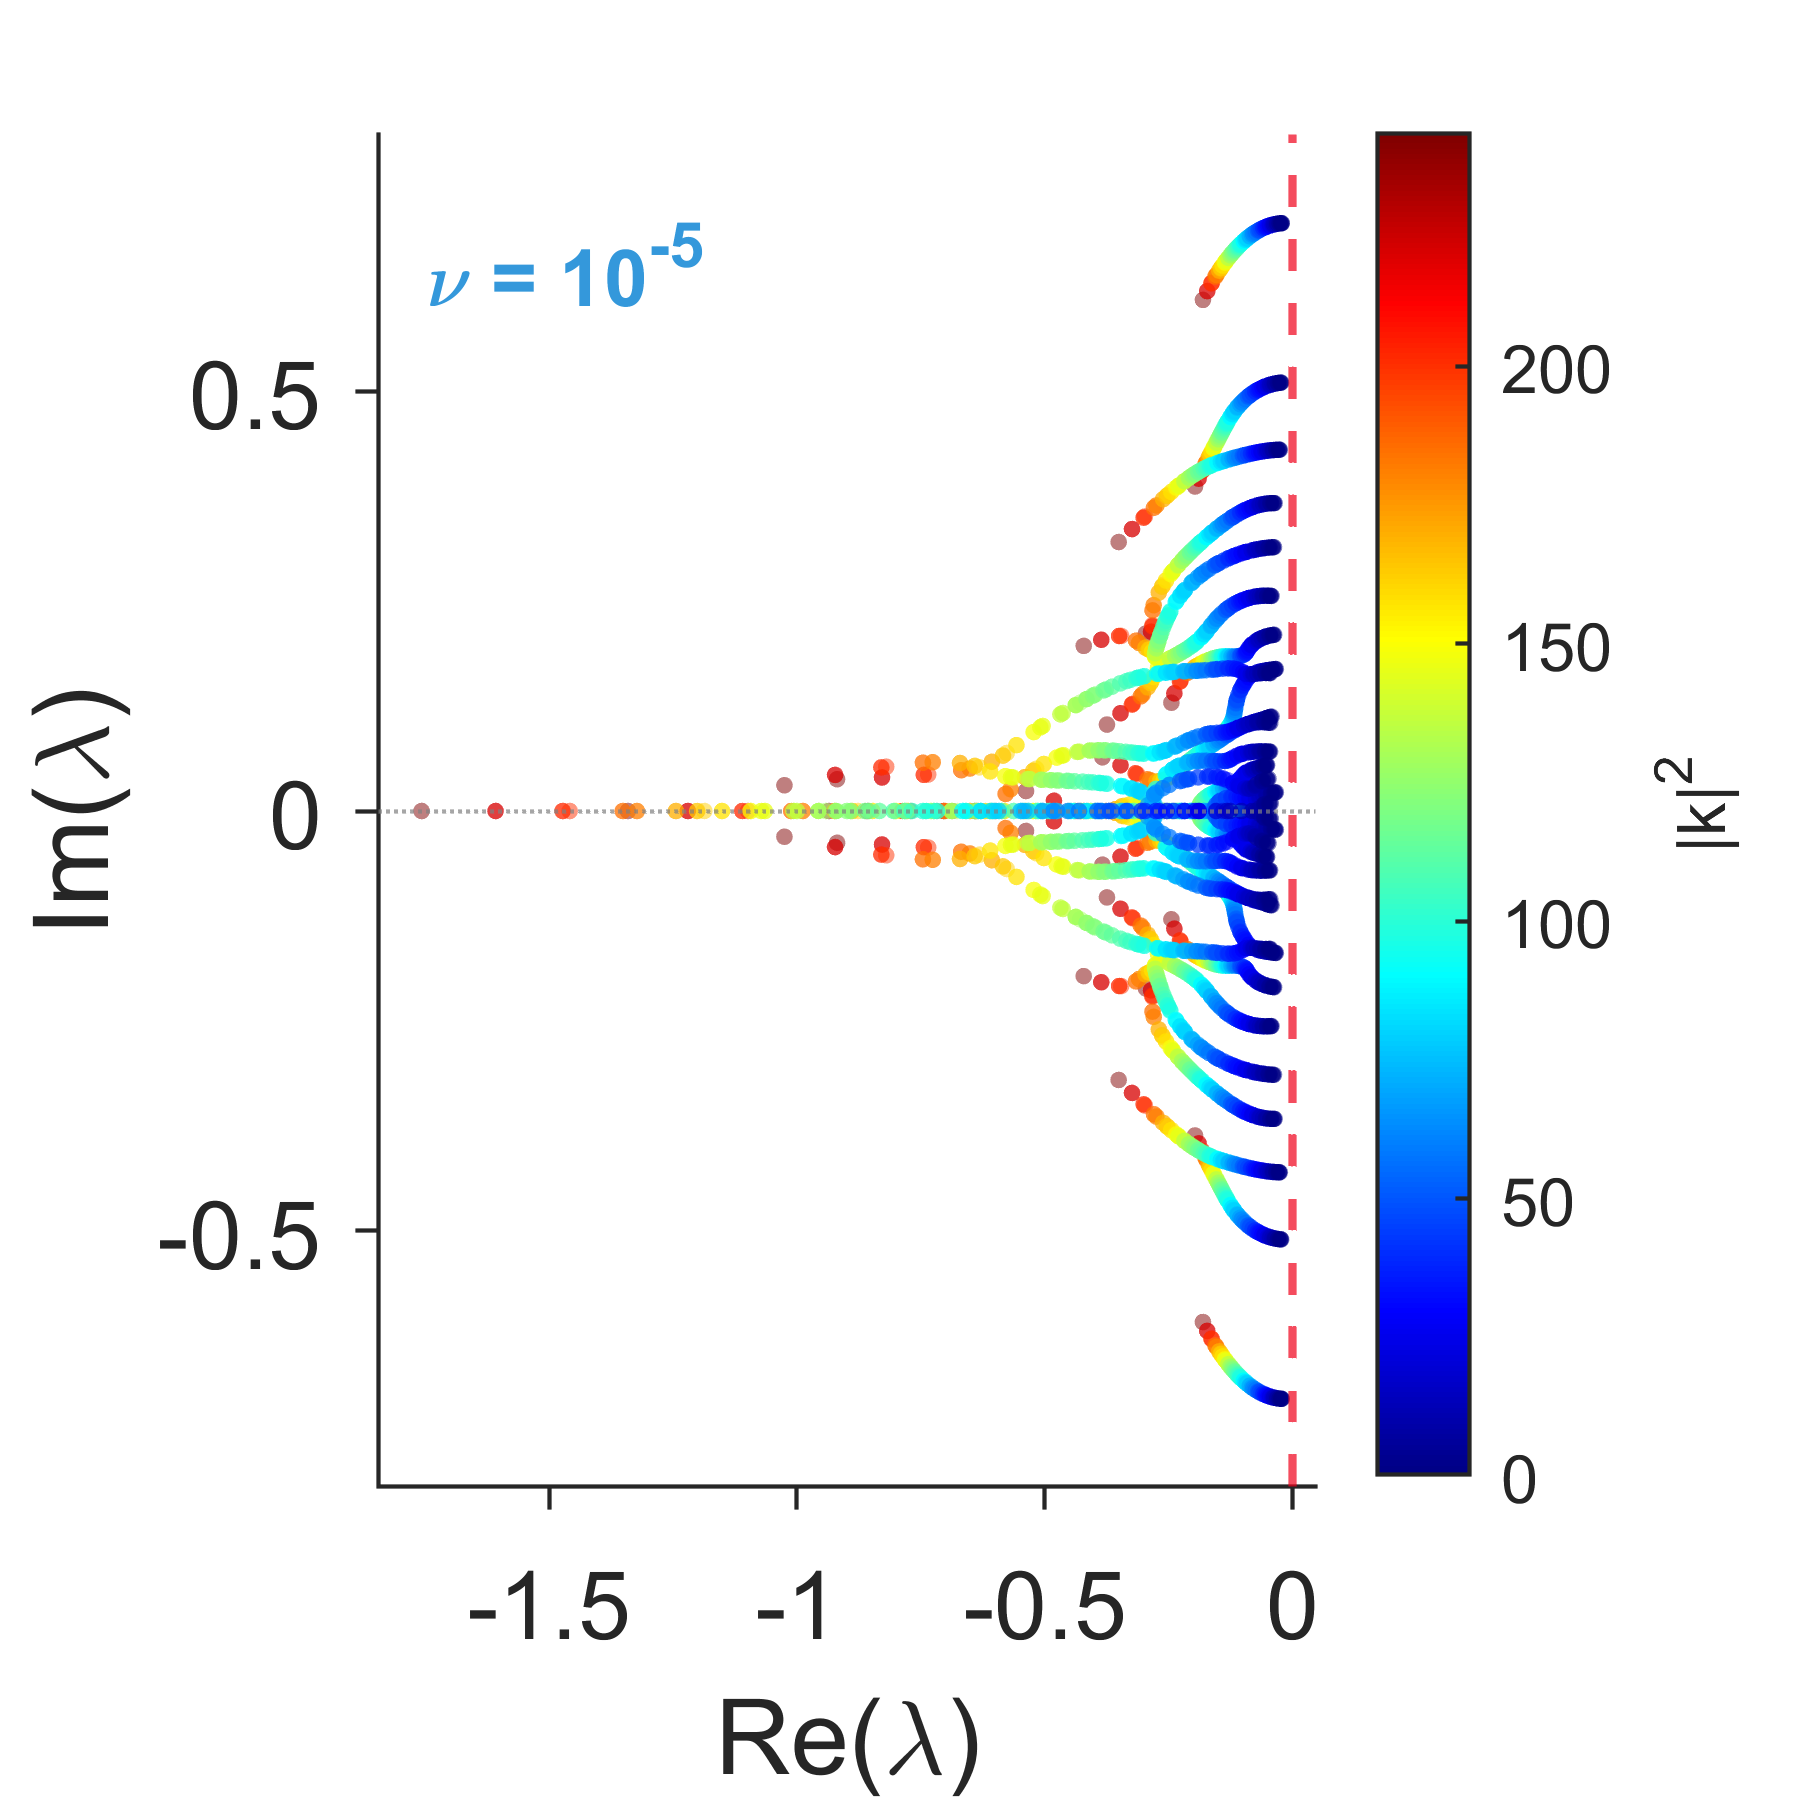
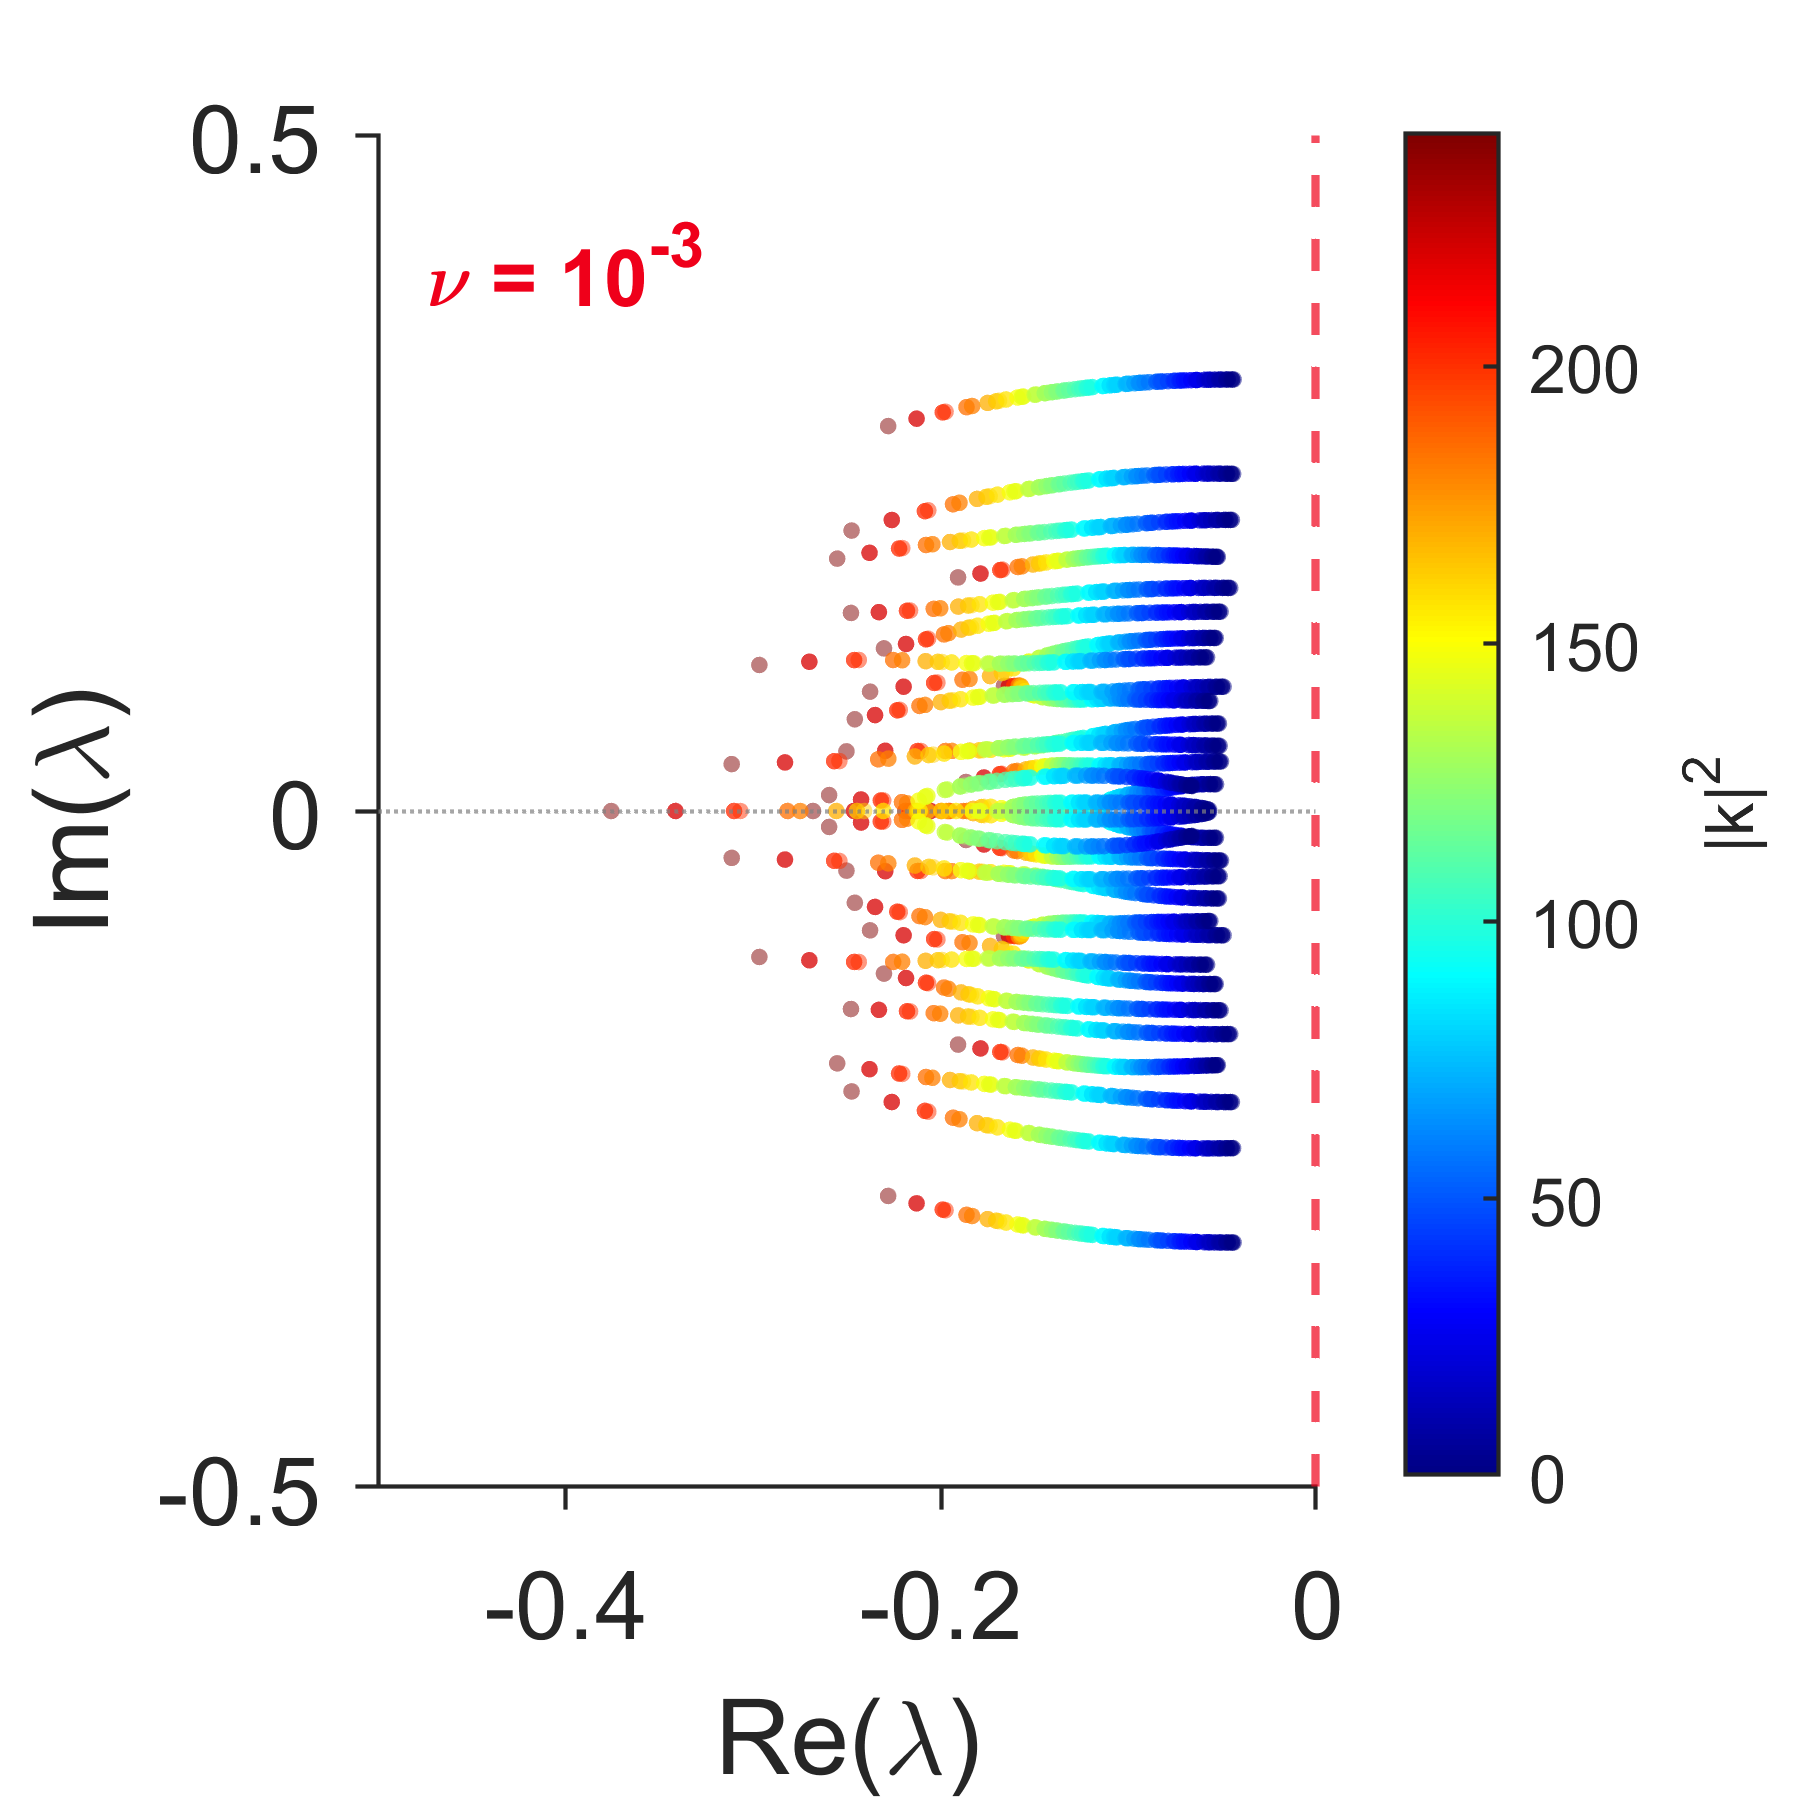
README: show paper panels 2b, 4d and 6c

diff --git a/README.md b/README.md
@@ -31,10 +31,10 @@ So every eigenvalue has Re(λ) ≤ 0 by construction, the whole spectrum is legi
 
 <p align="center">
 <img src="assets/ns_spectrum.png" width="31%">
-<img src="assets/transfer_curves.png" width="31%">
+<img src="assets/nlse_readout.png" width="31%">
 <img src="assets/transfer_budget.png" width="31%">
 </p>
-<p align="center"><sub>Left: all 4,608 eigenvalues of the learned generator for 2D turbulence (ν = 10⁻⁵), coloured by |k|². Middle: transfer from ν = 10⁻⁵ to ν = 10⁻³ with S frozen, vs training from scratch, using 50 trajectories. Right: test error against the number of training trajectories.</sub></p>
+<p align="center"><sub>Left: all 4,608 eigenvalues of the learned generator for 2D Navier–Stokes (ν = 10⁻³), coloured by |k|²; every one sits left of the imaginary axis. Middle: fiber dispersion |β₂| read from the rotation rates of S vs the true value, mean error under 3.1% with no fitted constant. Right: transfer from ν = 10⁻⁵ to ν = 10⁻³ with S frozen beats training from scratch at every data budget up to 500 trajectories.</sub></p>
 
 ## Try it in a minute
 
